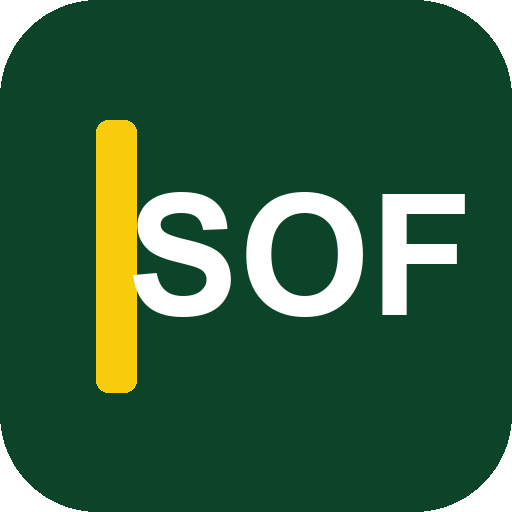
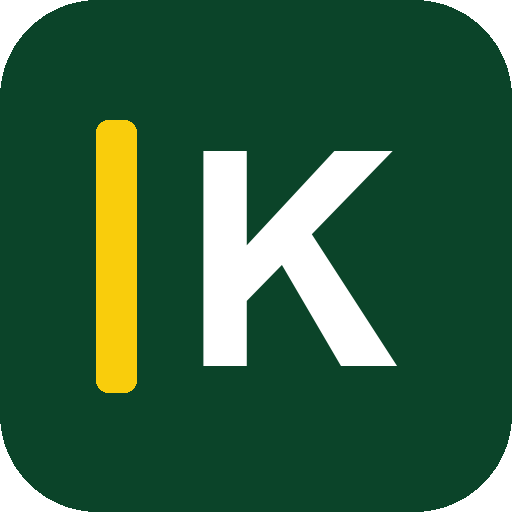
Renomeia o app para KIVOR-CRM (família Kivor)
Organização kivor-erp, repositório kivor-crm, novo ícone. A pasta SOF_CRM no
OneDrive e o banco local continuam com o nome antigo para não perder dados.

Changed region(s): [[0.25, 0.2812, 0.9062, 0.7188]]

diff --git a/src/app.tsx b/src/app.tsx
@@ -48,7 +48,7 @@ function Telas() {
   const aba = ABAS.find((a) => a.rota === tela) ?? ABAS[0];
   return (
     <>
-      <Topo titulo={aba.rota === 'hoje' ? 'CRM SOF · Hoje' : aba.rotulo} />
+      <Topo titulo={aba.rota === 'hoje' ? 'KIVOR-CRM · Hoje' : aba.rotulo} />
       <Abas atual={aba.rota} />
       <main>
         {aba.rota === 'hoje' && <Hoje />}
@@ -64,7 +64,8 @@ function Login({ erro }: { erro: string }) {
   return (
     <div class="tela-login">
       <img class="logo" src="./icone.svg" alt="" />
-      <h1>CRM SOF</h1>
+      <h1>KIVOR-CRM</h1>
+      <p style="margin:2px 0 0;color:var(--suave)">SOF TECNOELETRO</p>
       <p class="peq">Entre com a sua conta Microsoft da Voltrum. Os dados ficam no OneDrive, na pasta SOF_CRM.</p>
       {erro && <div class="erro">{erro}</div>}
       <button class="primario grande" onClick={() => void entrar()}>Entrar com a conta Microsoft</button>
@@ -77,7 +78,7 @@ function Conteudo() {
   const d = useDados();
   const s = useSync();
   if (d.pronto && !d.empresas.length && (s.tipo === 'inicio' || s.tipo === 'sincronizando')) {
-    return <><Topo titulo="CRM SOF" /><main><div class="cartao vazio">Baixando seus dados do OneDrive…</div></main></>;
+    return <><Topo titulo="KIVOR-CRM" /><main><div class="cartao vazio">Baixando seus dados do OneDrive…</div></main></>;
   }
   return <Telas />;
 }

diff --git a/public/sw.js b/public/sw.js
@@ -1,7 +1,7 @@
 // Service worker: deixa o app abrir sem internet. Só arquivos do app (HTML/JS/CSS/ícones);
 // os dados ficam no IndexedDB e no OneDrive, nunca aqui. Chamadas ao Graph/login não passam por cache.
 const VERSAO = new URL(self.location.href).searchParams.get('v') || 'dev';
-const CACHE = `crm-sof-${VERSAO}`;
+const CACHE = `kivor-crm-${VERSAO}`;
 
 self.addEventListener('install', (ev) => {
   ev.waitUntil((async () => {

diff --git a/vite.config.ts b/vite.config.ts
@@ -2,7 +2,7 @@ import { defineConfig } from 'vitest/config';
 import preact from '@preact/preset-vite';
 
 export default defineConfig({
-  // base relativa: funciona em localhost, GitHub Pages (/crm-sof/) e Azure
+  // base relativa: funciona em localhost, GitHub Pages (/kivor-crm/) e Azure
   base: './',
   plugins: [preact()],
   define: { __BUILD__: JSON.stringify(Date.now().toString(36)) },

diff --git a/src/db.ts b/src/db.ts
@@ -14,7 +14,7 @@ class CrmDb extends Dexie {
   meta!: Table<Meta, string>;
 
   constructor() {
-    super('crm-sof');
+    super('crm-sof'); // nome antigo mantido: trocar apagaria os dados e a fila deste aparelho
     this.version(1).stores({
       empresas: 'id, cnpj, sujo',
       contatos: 'id, empresaId, sujo',

diff --git a/index.html b/index.html
@@ -7,7 +7,7 @@
     <link rel="icon" href="./icone.svg" type="image/svg+xml" />
     <link rel="manifest" href="./manifest.webmanifest" />
     <link rel="apple-touch-icon" href="./icone-192.png" />
-    <title>CRM SOF</title>
+    <title>KIVOR-CRM</title>
   </head>
   <body>
     <div id="app"></div>

diff --git a/README.md b/README.md
@@ -1,6 +1,6 @@
-# CRM SOF
+# KIVOR-CRM
 
-CRM pessoal de prospecção da SOF TECNOELETRO (Serra/ES). Registra quais empresas foram contatadas, por qual canal,
+Módulo de CRM da família **Kivor** (KIVOR-ERP é o sistema central). CRM de prospecção da SOF TECNOELETRO (Serra/ES). Registra quais empresas foram contatadas, por qual canal,
 quando, e o que se conseguiu. Os dados ficam no **OneDrive da conta Voltrum**, então qualquer computador ou celular
 continua de onde parou, basta entrar com a conta Microsoft da Voltrum.
 
@@ -14,7 +14,7 @@ continua de onde parou, basta entrar com a conta Microsoft da Voltrum.
 
 ## 1. Usar no dia a dia
 
-**No PC:** abra o atalho **CRM SOF** (na pasta do projeto ou na Área de Trabalho). Ele abre o app numa janela própria,
+**No PC:** abra o atalho **KIVOR-CRM** (na pasta do projeto ou na Área de Trabalho). Ele abre o app numa janela própria,
 como um programa instalado. Alternativa: no Edge, abra o endereço do app → menu **⋯ › Aplicativos › Instalar este site
 como aplicativo**; isso cria o atalho no Menu Iniciar e na Área de Trabalho.
 
@@ -32,10 +32,10 @@ como excluído.
 ### Atalho na pasta
 
 ```powershell
-powershell -ExecutionPolicy Bypass -File criar-atalho.ps1 -Url https://USUARIO.github.io/crm-sof/ -AreaDeTrabalho
+powershell -ExecutionPolicy Bypass -File criar-atalho.ps1 -AreaDeTrabalho
 ```
 
-Cria `CRM SOF.lnk` na pasta do projeto (e na Área de Trabalho com `-AreaDeTrabalho`). Ele roda
+Cria `KIVOR-CRM.lnk` na pasta do projeto (e na Área de Trabalho com `-AreaDeTrabalho`). Ele roda
 `msedge.exe --app=<endereço>`: janela própria, sem abas nem barra de endereço.
 
 ---
@@ -56,12 +56,12 @@ npm run build    # gera dist/
 
 ## 3. Configurar o Microsoft Entra (Azure)
 
-Já feito para a Voltrum (app **CRM SOF**). Os IDs ficam em `src/config.ts` (não são segredos). Para refazer:
+Já feito para a Voltrum (app **CRM SOF** no Entra; pode ser renomeado para KIVOR-CRM sem efeito no ID). Os IDs ficam em `src/config.ts` (não são segredos). Para refazer:
 
 1. https://entra.microsoft.com → **Entra ID** (ou **Identidade › Aplicativos**) → **Registros de aplicativo** → **+ Novo registro**.
-2. Nome `CRM SOF`; **Contas somente neste diretório organizacional (Locatário único)**.
+2. Nome `KIVOR-CRM`; **Contas somente neste diretório organizacional (Locatário único)**.
 3. URI de redirecionamento: plataforma **Aplicativo de página única (SPA)** → `http://localhost:5173/` → **Registrar**.
-4. **Autenticação › Adicionar URI**: o endereço publicado, com a barra no final (ex.: `https://USUARIO.github.io/crm-sof/`).
+4. **Autenticação › Adicionar URI**: o endereço publicado, com a barra no final (`https://kivor-erp.github.io/kivor-crm/`).
 5. **Permissões de API › Adicionar uma permissão › Microsoft Graph › Permissões delegadas**: `User.Read` e `Files.ReadWrite`.
    Se pedir, **Conceder consentimento do administrador**.
 6. Copie **ID do aplicativo (cliente)** e **ID do diretório (locatário)** para `src/config.ts`. Não crie segredo.
@@ -70,14 +70,15 @@ Já feito para a Voltrum (app **CRM SOF**). Os IDs ficam em `src/config.ts` (nã
 
 ## 4. Publicar (GitHub Pages)
 
-1. Em https://github.com/new crie o repositório `crm-sof` (público; o código não tem nenhum dado).
+1. Organização **`kivor-erp`** no GitHub (https://github.com/organizations/plan, plano Free) e, dentro dela, o repositório
+   **`kivor-crm`** (público; o código não tem nenhum dado). Outros módulos seguem o padrão `kivor-<módulo>`.
 2. No repositório: **Settings › Pages › Build and deployment › Source: GitHub Actions**.
 3. Envie o código:
    ```bash
-   git remote add origin https://github.com/USUARIO/crm-sof.git
+   git remote add origin https://github.com/kivor-erp/kivor-crm.git
    git push -u origin main
    ```
-4. A aba **Actions** roda testes + build e publica em `https://USUARIO.github.io/crm-sof/`.
+4. A aba **Actions** roda testes + build e publica em `https://kivor-erp.github.io/kivor-crm/`.
 5. Adicione esse endereço no Entra (passo 3.4).
 
 Cada `git push` na `main` publica de novo. O app já aberto pega a versão nova ao recarregar.
@@ -99,7 +100,7 @@ Cada `git push` na `main` publica de novo. O app já aberto pega a versão nova 
 O app usa o OneDrive **de quem entra** (`/me/drive`). Hoje:
 
 - **Cada pessoa com o próprio CRM:** já funciona. Qualquer conta da Voltrum pode entrar e terá seu próprio
-  `SOF_CRM/crm.json`. Para limitar quem pode entrar: Entra › **Aplicativos empresariais › CRM SOF › Propriedades ›
+  `SOF_CRM/crm.json`. Para limitar quem pode entrar: Entra › **Aplicativos empresariais › CRM SOF (ou KIVOR-CRM) › Propriedades ›
   Atribuição obrigatória = Sim**, e em **Usuários e grupos** adicione as pessoas.
 - **Equipe com os mesmos dados:** exige uma pequena mudança. Colocar `SOF_CRM` numa biblioteca do SharePoint/Teams
   compartilhada, trocar em `src/onedrive.ts` o caminho `me/drive/root:` pelo da biblioteca (`drives/{id}/root:`) e pedir
